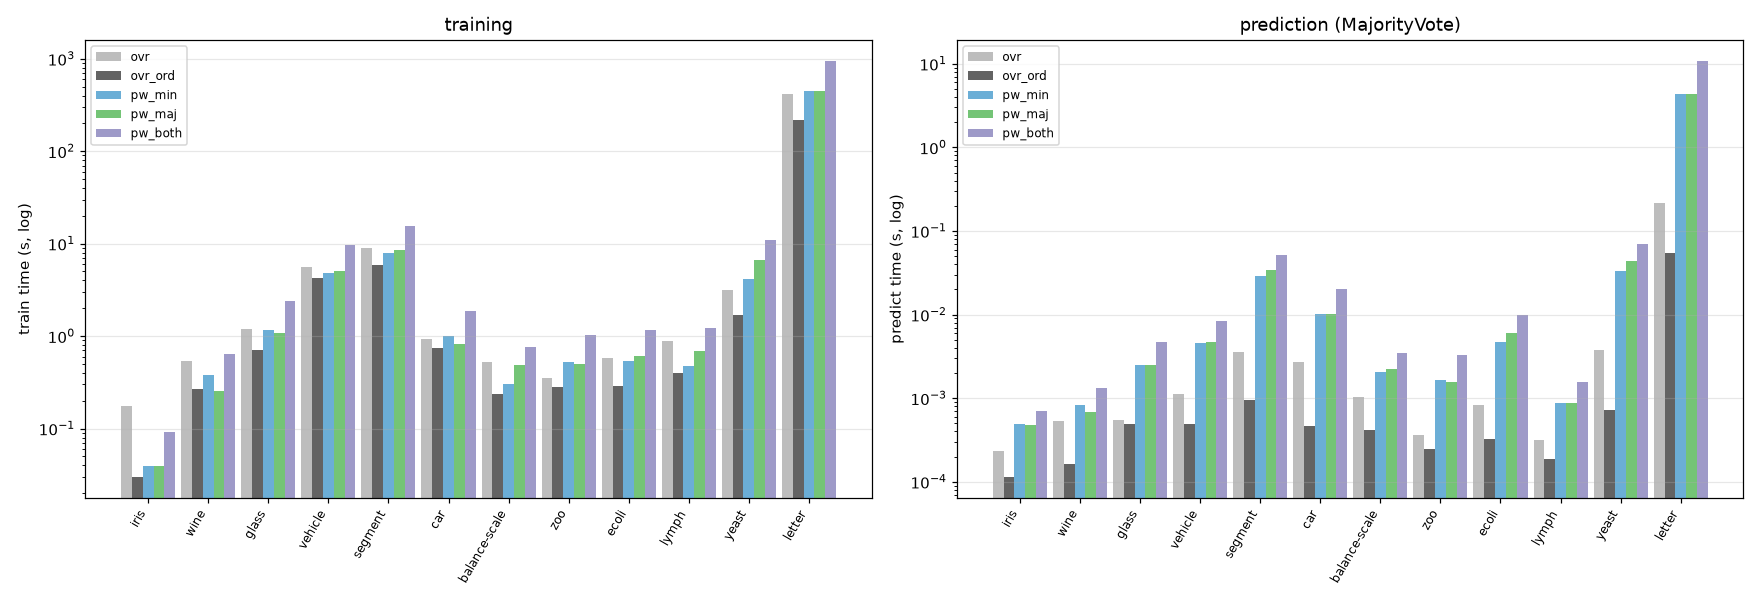
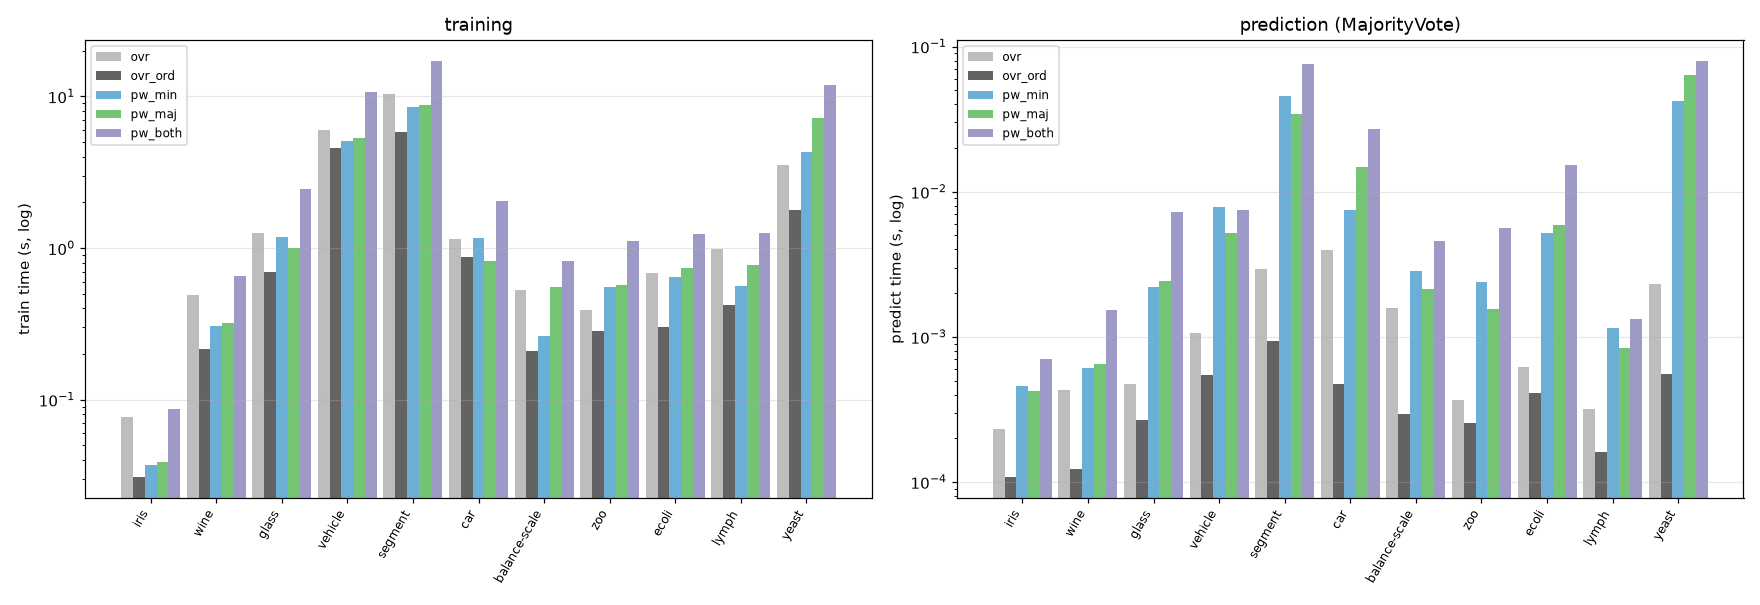
demo_pairwise_decomposition: exclude letter by default, embed own plots
letter (26 classes) makes C(26,2)=325 pairwise Pypper fits per variant --
pw_both alone measured ~1050s train time, and this demo had no per-fit
timeout (unlike demo_workflow_comparison's TimeoutRunner) or exclude-list
(unlike demo_seco_learners_comparison's LARGE_DATASETS) to bound it, so a
full run took ~1.5 hours. Added the same LARGE_DATASETS/--include-large
pattern demo_seco_learners_comparison already uses, plus an "Excluded
datasets" section in the report stating why and how to re-enable it --
demo_seco_learners_comparison's report already does this via one line in
its intro; demo_workflow_comparison's own excluded dataset (adult) is
intentionally left to the README instead, per its own docstring, and
needs no change here.

Re-run: ~7 minutes instead of ~1.5 hours.

Also embeds the report's own three plots (accuracy/runtime/complexity)
next to their matching sections -- previously separate, undiscoverable
sibling files, same fix as demo_ripper_comparison's previous commit.

diff --git a/examples/demo_pairwise_decomposition.py b/examples/demo_pairwise_decomposition.py
@@ -42,6 +42,11 @@ separately** -- predict dominates for pairwise (many sub-models), and
 Shared binarized feature set (`build_dataspec` + `binarize` once per
 dataset), 70/30 stratified split, seed 0. Uncapped by default; `--cap N`
 subsamples larger sets. Reuses `demo_ripper_comparison`'s OpenML loader.
+
+`letter` (26 classes) is excluded by default -- `C(26,2)=325` pairwise
+Pypper fits per variant makes it by far the slowest dataset here (`pw_both`
+alone measured ~1050s train time); `--include-large` adds it back. See
+`LARGE_DATASETS`/`DISABLED_REASON`.
 """
 
 from __future__ import annotations
@@ -64,10 +69,21 @@ HERE = os.path.dirname(__file__)
 REPORT_PATH = os.path.join(HERE, "demo_pairwise_decomposition_report.md")
 PLOT_PREFIX = os.path.join(HERE, "demo_pairwise_decomposition")
 
-DATASETS = [
+STANDARD_DATASETS = [
     "iris", "wine", "glass", "vehicle", "segment", "car",
     "balance-scale", "zoo", "ecoli", "lymph", "yeast", "letter",
 ]
+# letter: 26 classes -> C(26,2)=325 pairwise models, x3 for pw_min/pw_maj/vote
+# variants (pw_both doubles that again) -- pw_both alone measured ~1050s
+# *train* time here (no per-fit timeout in this demo, unlike
+# demo_workflow_comparison's TimeoutRunner), on top of ovr/ovr_ord and the
+# other 11 datasets. Excluded by default; pass --include-large to add it back.
+LARGE_DATASETS = ["letter"]
+DISABLED_REASON = {
+    "letter": "26 classes -> hundreds of pairwise Pypper fits; pw_both alone "
+              "measured ~1050s train time. Re-run with --include-large to include it.",
+}
+SMALL_DATASETS = [d for d in STANDARD_DATASETS if d not in LARGE_DATASETS]
 
 
 def pypper():
@@ -167,7 +183,7 @@ def _mean(rows, key, field):
     return np.mean(vals) if vals else float("nan")
 
 
-def write_report(results):
+def write_report(results, excluded=()):
     L = ["# Pairwise vs. one-vs-rest decomposition for Pypper", "",
          "One inner learner (`Pypper._stage_learner()`), shared binarized features, 70/30 "
          "stratified split, seed 0. 5 fitted models; the 3 pairwise ones are each scored under "
@@ -175,7 +191,14 @@ def write_report(results):
          "the *same fit* -- their `train s` is 0 (shared). `pw_min`/`pw_maj`/`pw_both` = "
          "`Pairwise(positive=)` `smaller`/`larger`/`both`.", ""]
 
+    if excluded:
+        L += ["## Excluded datasets", ""]
+        for name in excluded:
+            L.append(f"- **{name}**: {DISABLED_REASON.get(name, 'excluded for runtime.')}")
+        L.append("")
+
     L += ["## Accuracy -- all 11 results", "",
+          f"![accuracy, all 11 results]({os.path.basename(PLOT_PREFIX)}_accuracy.png)", "",
           "| dataset | n | classes | " + " | ".join(RESULT_KEYS) + " |",
           "|---|--:|--:|" + "--:|" * len(RESULT_KEYS)]
     for r in results:
@@ -201,6 +224,7 @@ def write_report(results):
         L.append(f"| {r['name']} | " + " | ".join(cells) + " |")
 
     L += ["", "## Train vs. predict time (s) -- the 5 fitted models", "",
+          f"![train and predict time, log scale]({os.path.basename(PLOT_PREFIX)}_runtime.png)", "",
           "| dataset | " + " | ".join(f"{k} train / pred" for k in FIT_KEYS) + " |",
           "|---|" + "--:|" * len(FIT_KEYS)]
     for r in results:
@@ -219,6 +243,7 @@ def write_report(results):
           "cheap as `:vote`. Per-result predict times are in the section above.)*"]
 
     L += ["", "## Rule complexity -- the 5 fitted models", "",
+          f"![rule count and total conditions, log scale]({os.path.basename(PLOT_PREFIX)}_complexity.png)", "",
           "| dataset | " + " | ".join(f"{k} models/rules/conds" for k in FIT_KEYS) + " |",
           "|---|" + "--:|" * len(FIT_KEYS)]
     for r in results:
@@ -308,16 +333,20 @@ def write_plots(results):
     print(f"Plot   -> {PLOT_PREFIX}_complexity.png")
 
 
-def main():
+def main(include_large=False):
     warnings.simplefilter("ignore")
     print(f"row cap: {MAX_ROWS if MAX_ROWS is not None else 'none (uncapped)'}")
+    datasets = STANDARD_DATASETS if include_large else SMALL_DATASETS
+    excluded = [] if include_large else LARGE_DATASETS
+    if excluded:
+        print(f"excluded (pass --include-large to add back): {', '.join(excluded)}")
     results = []
-    for name in DATASETS:
+    for name in datasets:
         try:
             results.append(run_dataset(name))
         except Exception as e:  # noqa: BLE001
             print(f"\n{name}  SKIPPED ({type(e).__name__}: {str(e)[:100]})")
-    write_report(results)
+    write_report(results, excluded=excluded)
     write_plots(results)
 
 
@@ -325,6 +354,9 @@ if __name__ == "__main__":
     ap = argparse.ArgumentParser(description=__doc__)
     ap.add_argument("--cap", type=int, default=None, metavar="N",
                     help="subsample datasets larger than N rows (default: no cap)")
+    ap.add_argument("--include-large", action="store_true",
+                    help=f"also run the large datasets ({', '.join(LARGE_DATASETS)}), "
+                         "excluded by default for runtime")
     args = ap.parse_args()
     MAX_ROWS = args.cap
-    main()
+    main(include_large=args.include_large)

diff --git a/examples/demo_pairwise_decomposition_report.md b/examples/demo_pairwise_decomposition_report.md
@@ -1,8 +1,14 @@
 # Pairwise vs. one-vs-rest decomposition for Pypper
 
-One inner learner (`RIPPER._stage_learner()`), shared binarized features, 70/30 stratified split, seed 0. 5 fitted models; the 3 pairwise ones are each scored under `MajorityVote` (`:vote`), `WeightedVote` (`:wv`), `AccuracyWeightedVote` (`:awv`) on the *same fit* -- their `train s` is 0 (shared). `pw_min`/`pw_maj`/`pw_both` = `Pairwise(positive=)` `smaller`/`larger`/`both`.
+One inner learner (`Pypper._stage_learner()`), shared binarized features, 70/30 stratified split, seed 0. 5 fitted models; the 3 pairwise ones are each scored under `MajorityVote` (`:vote`), `WeightedVote` (`:wv`), `AccuracyWeightedVote` (`:awv`) on the *same fit* -- their `train s` is 0 (shared). `pw_min`/`pw_maj`/`pw_both` = `Pairwise(positive=)` `smaller`/`larger`/`both`.
+
+## Excluded datasets
+
+- **letter**: 26 classes -> hundreds of pairwise Pypper fits; pw_both alone measured ~1050s train time. Re-run with --include-large to include it.
 
 ## Accuracy -- all 11 results
+
+![accuracy, all 11 results](demo_pairwise_decomposition_accuracy.png)
 
 | dataset | n | classes | ovr | ovr_ord | pw_min:vote | pw_min:wv | pw_min:awv | pw_maj:vote | pw_maj:wv | pw_maj:awv | pw_both:vote | pw_both:wv | pw_both:awv |
 |---|--:|--:|--:|--:|--:|--:|--:|--:|--:|--:|--:|--:|--:|
@@ -17,21 +23,20 @@ One inner learner (`RIPPER._stage_learner()`), shared binarized features, 70/30 
 | ecoli | 336 | 8 | 0.842 | 0.842 | 0.851 | 0.822 | 0.851 | 0.406 | 0.436 | 0.861 | 0.851 | 0.634 | 0.851 |
 | lymph | 148 | 4 | 0.867 | 0.822 | 0.822 | 0.800 | 0.822 | 0.844 | 0.556 | 0.844 | 0.822 | 0.800 | 0.822 |
 | yeast | 1484 | 10 | 0.570 | 0.570 | 0.556 | 0.567 | 0.558 | 0.561 | 0.383 | 0.563 | 0.574 | 0.496 | 0.576 |
-| letter | 20000 | 26 | 0.755 | 0.786 | 0.849 | 0.215 | 0.853 | 0.852 | 0.284 | 0.853 | 0.869 | 0.867 | 0.870 |
 
 | result | datasets | mean acc | mean predict s |
 |---|--:|--:|--:|
-| ovr | 12 | 0.816 | 0.02 |
-| ovr_ord | 12 | 0.815 | 0.00 |
-| pw_min:vote | 12 | 0.825 | 0.37 |
-| pw_min:wv | 12 | 0.729 | 3.35 |
-| pw_min:awv | 12 | 0.826 | 0.48 |
-| pw_maj:vote | 12 | 0.746 | 0.37 |
-| pw_maj:wv | 12 | 0.541 | 3.28 |
-| pw_maj:awv | 12 | 0.836 | 0.50 |
-| pw_both:vote | 12 | 0.832 | 0.92 |
-| pw_both:wv | 12 | 0.795 | 8.35 |
-| pw_both:awv | 12 | 0.836 | 1.17 |
+| ovr | 11 | 0.821 | 0.00 |
+| ovr_ord | 11 | 0.818 | 0.00 |
+| pw_min:vote | 11 | 0.823 | 0.01 |
+| pw_min:wv | 11 | 0.775 | 0.07 |
+| pw_min:awv | 11 | 0.824 | 0.01 |
+| pw_maj:vote | 11 | 0.736 | 0.01 |
+| pw_maj:wv | 11 | 0.564 | 0.08 |
+| pw_maj:awv | 11 | 0.834 | 0.01 |
+| pw_both:vote | 11 | 0.828 | 0.02 |
+| pw_both:wv | 11 | 0.789 | 0.14 |
+| pw_both:awv | 11 | 0.833 | 0.02 |
 
 ### predict time (s) -- all 11 results
 
@@ -39,45 +44,47 @@ One inner learner (`RIPPER._stage_learner()`), shared binarized features, 70/30 
 |---|--:|--:|--:|--:|--:|--:|--:|--:|--:|--:|--:|
 | iris | 0.00 | 0.00 | 0.00 | 0.00 | 0.00 | 0.00 | 0.00 | 0.00 | 0.00 | 0.00 | 0.00 |
 | wine | 0.00 | 0.00 | 0.00 | 0.00 | 0.00 | 0.00 | 0.00 | 0.00 | 0.00 | 0.01 | 0.00 |
-| glass | 0.00 | 0.00 | 0.00 | 0.01 | 0.00 | 0.00 | 0.01 | 0.00 | 0.00 | 0.03 | 0.01 |
-| vehicle | 0.00 | 0.00 | 0.00 | 0.03 | 0.01 | 0.00 | 0.02 | 0.01 | 0.01 | 0.05 | 0.01 |
-| segment | 0.00 | 0.00 | 0.03 | 0.21 | 0.04 | 0.03 | 0.24 | 0.06 | 0.05 | 0.49 | 0.07 |
-| car | 0.00 | 0.00 | 0.01 | 0.04 | 0.01 | 0.01 | 0.08 | 0.01 | 0.02 | 0.12 | 0.02 |
-| balance-scale | 0.00 | 0.00 | 0.00 | 0.01 | 0.00 | 0.00 | 0.01 | 0.00 | 0.00 | 0.02 | 0.00 |
-| zoo | 0.00 | 0.00 | 0.00 | 0.01 | 0.00 | 0.00 | 0.01 | 0.00 | 0.00 | 0.02 | 0.01 |
-| ecoli | 0.00 | 0.00 | 0.00 | 0.03 | 0.01 | 0.01 | 0.04 | 0.01 | 0.01 | 0.07 | 0.02 |
-| lymph | 0.00 | 0.00 | 0.00 | 0.00 | 0.00 | 0.00 | 0.00 | 0.00 | 0.00 | 0.01 | 0.00 |
-| yeast | 0.00 | 0.00 | 0.03 | 0.26 | 0.05 | 0.04 | 0.34 | 0.05 | 0.07 | 0.64 | 0.11 |
-| letter | 0.22 | 0.05 | 4.37 | 39.58 | 5.65 | 4.31 | 38.64 | 5.81 | 10.85 | 98.72 | 13.81 |
+| glass | 0.00 | 0.00 | 0.00 | 0.01 | 0.00 | 0.00 | 0.01 | 0.00 | 0.01 | 0.04 | 0.01 |
+| vehicle | 0.00 | 0.00 | 0.01 | 0.03 | 0.01 | 0.01 | 0.03 | 0.01 | 0.01 | 0.06 | 0.01 |
+| segment | 0.00 | 0.00 | 0.05 | 0.31 | 0.04 | 0.03 | 0.23 | 0.04 | 0.08 | 0.50 | 0.08 |
+| car | 0.00 | 0.00 | 0.01 | 0.05 | 0.01 | 0.01 | 0.09 | 0.01 | 0.03 | 0.14 | 0.03 |
+| balance-scale | 0.00 | 0.00 | 0.00 | 0.01 | 0.00 | 0.00 | 0.01 | 0.00 | 0.00 | 0.02 | 0.01 |
+| zoo | 0.00 | 0.00 | 0.00 | 0.01 | 0.00 | 0.00 | 0.01 | 0.00 | 0.01 | 0.03 | 0.00 |
+| ecoli | 0.00 | 0.00 | 0.01 | 0.03 | 0.01 | 0.01 | 0.05 | 0.01 | 0.02 | 0.07 | 0.02 |
+| lymph | 0.00 | 0.00 | 0.00 | 0.01 | 0.00 | 0.00 | 0.00 | 0.00 | 0.00 | 0.01 | 0.00 |
+| yeast | 0.00 | 0.00 | 0.04 | 0.26 | 0.07 | 0.06 | 0.41 | 0.05 | 0.08 | 0.65 | 0.10 |
 
 ## Train vs. predict time (s) -- the 5 fitted models
 
+![train and predict time, log scale](demo_pairwise_decomposition_runtime.png)
+
 | dataset | ovr train / pred | ovr_ord train / pred | pw_min train / pred | pw_maj train / pred | pw_both train / pred |
 |---|--:|--:|--:|--:|--:|
-| iris | 0.2 / 0.00 | 0.0 / 0.00 | 0.0 / 0.00 | 0.0 / 0.00 | 0.1 / 0.00 |
-| wine | 0.5 / 0.00 | 0.3 / 0.00 | 0.4 / 0.00 | 0.3 / 0.00 | 0.6 / 0.00 |
-| glass | 1.2 / 0.00 | 0.7 / 0.00 | 1.2 / 0.00 | 1.1 / 0.00 | 2.4 / 0.00 |
-| vehicle | 5.6 / 0.00 | 4.3 / 0.00 | 4.9 / 0.00 | 5.1 / 0.00 | 9.8 / 0.01 |
-| segment | 9.1 / 0.00 | 5.8 / 0.00 | 7.9 / 0.03 | 8.5 / 0.03 | 15.7 / 0.05 |
-| car | 0.9 / 0.00 | 0.7 / 0.00 | 1.0 / 0.01 | 0.8 / 0.01 | 1.9 / 0.02 |
-| balance-scale | 0.5 / 0.00 | 0.2 / 0.00 | 0.3 / 0.00 | 0.5 / 0.00 | 0.8 / 0.00 |
-| zoo | 0.4 / 0.00 | 0.3 / 0.00 | 0.5 / 0.00 | 0.5 / 0.00 | 1.0 / 0.00 |
-| ecoli | 0.6 / 0.00 | 0.3 / 0.00 | 0.5 / 0.00 | 0.6 / 0.01 | 1.2 / 0.01 |
-| lymph | 0.9 / 0.00 | 0.4 / 0.00 | 0.5 / 0.00 | 0.7 / 0.00 | 1.2 / 0.00 |
-| yeast | 3.2 / 0.00 | 1.7 / 0.00 | 4.1 / 0.03 | 6.7 / 0.04 | 10.9 / 0.07 |
-| letter | 414.0 / 0.22 | 215.2 / 0.05 | 453.3 / 4.37 | 453.2 / 4.31 | 950.4 / 10.85 |
+| iris | 0.1 / 0.00 | 0.0 / 0.00 | 0.0 / 0.00 | 0.0 / 0.00 | 0.1 / 0.00 |
+| wine | 0.5 / 0.00 | 0.2 / 0.00 | 0.3 / 0.00 | 0.3 / 0.00 | 0.7 / 0.00 |
+| glass | 1.3 / 0.00 | 0.7 / 0.00 | 1.2 / 0.00 | 1.0 / 0.00 | 2.5 / 0.01 |
+| vehicle | 6.0 / 0.00 | 4.6 / 0.00 | 5.1 / 0.01 | 5.3 / 0.01 | 10.7 / 0.01 |
+| segment | 10.4 / 0.00 | 5.8 / 0.00 | 8.5 / 0.05 | 8.8 / 0.03 | 17.2 / 0.08 |
+| car | 1.2 / 0.00 | 0.9 / 0.00 | 1.2 / 0.01 | 0.8 / 0.01 | 2.1 / 0.03 |
+| balance-scale | 0.5 / 0.00 | 0.2 / 0.00 | 0.3 / 0.00 | 0.6 / 0.00 | 0.8 / 0.00 |
+| zoo | 0.4 / 0.00 | 0.3 / 0.00 | 0.6 / 0.00 | 0.6 / 0.00 | 1.1 / 0.01 |
+| ecoli | 0.7 / 0.00 | 0.3 / 0.00 | 0.6 / 0.01 | 0.7 / 0.01 | 1.2 / 0.02 |
+| lymph | 1.0 / 0.00 | 0.4 / 0.00 | 0.6 / 0.00 | 0.8 / 0.00 | 1.3 / 0.00 |
+| yeast | 3.5 / 0.00 | 1.8 / 0.00 | 4.3 / 0.04 | 7.2 / 0.06 | 11.9 / 0.08 |
 
 | model | mean train s | mean predict s (vote) |
 |---|--:|--:|
-| ovr | 36.42 | 0.02 |
-| ovr_ord | 19.16 | 0.00 |
-| pw_min | 39.55 | 0.37 |
-| pw_maj | 39.83 | 0.37 |
-| pw_both | 82.99 | 0.92 |
+| ovr | 2.32 | 0.00 |
+| ovr_ord | 1.38 | 0.00 |
+| pw_min | 2.06 | 0.01 |
+| pw_maj | 2.37 | 0.01 |
+| pw_both | 4.50 | 0.02 |
 
 *(train time for `:wv` / `:awv` is 0 -- same fit as `:vote`. `:wv` roughly doubles predict time -- it re-resolves every member's covering rules; `:awv` is as cheap as `:vote`. Per-result predict times are in the section above.)*
 
 ## Rule complexity -- the 5 fitted models
+
+![rule count and total conditions, log scale](demo_pairwise_decomposition_complexity.png)
 
 | dataset | ovr models/rules/conds | ovr_ord models/rules/conds | pw_min models/rules/conds | pw_maj models/rules/conds | pw_both models/rules/conds |
 |---|--:|--:|--:|--:|--:|
@@ -92,12 +99,11 @@ One inner learner (`RIPPER._stage_learner()`), shared binarized features, 70/30 
 | ecoli | 8/8/21 | 7/7/13 | 28/16/17 | 28/17/19 | 56/33/36 |
 | lymph | 4/7/15 | 3/3/5 | 6/4/6 | 6/6/8 | 12/10/14 |
 | yeast | 10/19/72 | 9/12/28 | 45/57/95 | 45/72/112 | 90/129/207 |
-| letter | 26/255/1697 | 25/202/1194 | 325/1608/4429 | 325/1638/4608 | 650/3246/9037 |
 
 | model | mean models | mean rules | mean conds |
 |---|--:|--:|--:|
-| ovr | 7.1 | 31.2 | 172.1 |
-| ovr_ord | 6.1 | 22.9 | 115.4 |
-| pw_min | 40.2 | 150.1 | 398.3 |
-| pw_maj | 40.2 | 156.2 | 416.4 |
-| pw_both | 80.3 | 306.7 | 813.8 |
+| ovr | 5.4 | 10.8 | 33.5 |
+| ovr_ord | 4.4 | 6.6 | 17.4 |
+| pw_min | 14.3 | 17.5 | 31.9 |
+| pw_maj | 14.3 | 21.5 | 35.4 |
+| pw_both | 28.5 | 39.5 | 66.2 |
